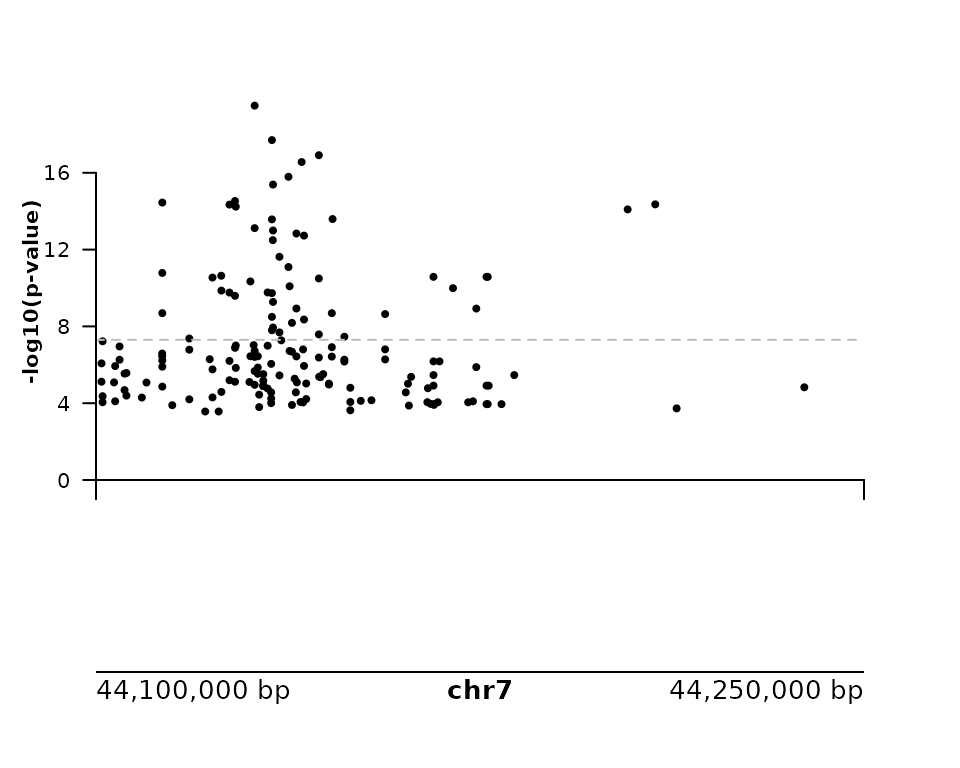
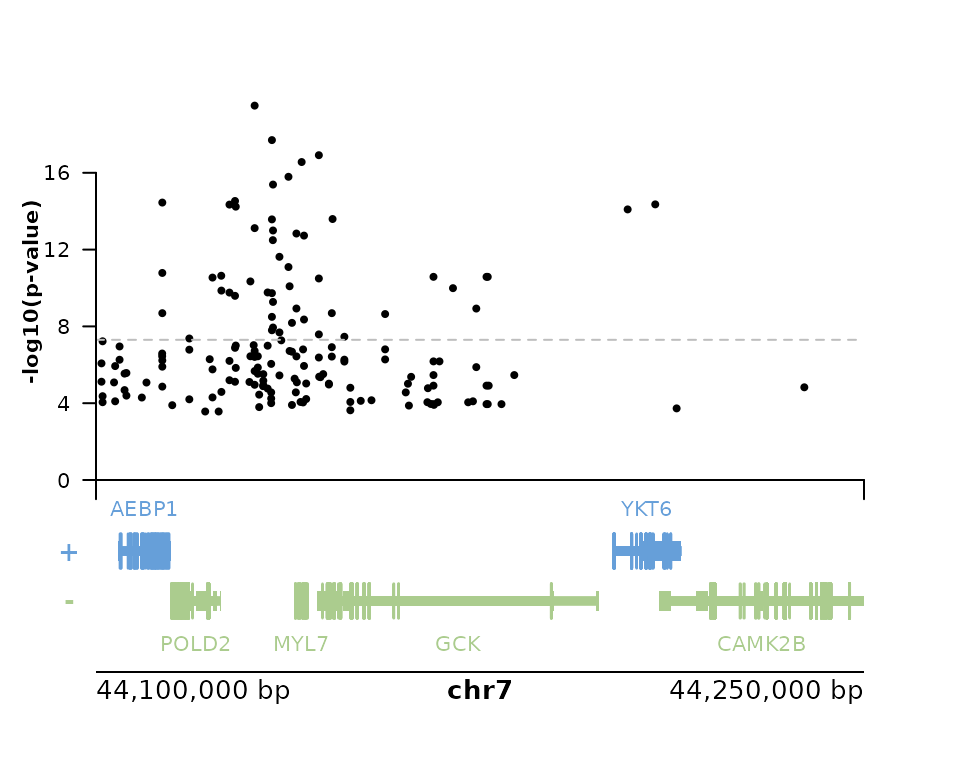
Deploying to gh-pages from @ IGVF/rigvf@bd4b7398d76fc277c2a14d004ba63ebf69a8180a 🚀

Changed region(s): [[0.2812, 0.75, 0.625, 0.8438], [0.625, 0.6562, 0.9062, 0.8438], [0.125, 0.6562, 0.25, 0.8438]]

diff --git a/articles/use.html b/articles/use.html
@@ -425,7 +425,9 @@ names.</p>
 <span><span class="co">#&gt; Attaching package: 'AnnotationDbi'</span></span>
 <span><span class="co">#&gt; The following object is masked from 'package:plyranges':</span></span>
 <span><span class="co">#&gt; </span></span>
-<span><span class="co">#&gt;     select</span></span></code></pre></div>
+<span><span class="co">#&gt;     select</span></span>
+<span><span class="kw"><a href="https://rdrr.io/r/base/library.html" class="external-link">library</a></span><span class="op">(</span><span class="va">org.Hs.eg.db</span><span class="op">)</span></span>
+<span><span class="co">#&gt; </span></span></code></pre></div>
 <p>Below we build the page and populate it with annotation from the
 <em>TxDb</em> used by <em>plotgardener</em> and from IGVF Catalog.</p>
 <div class="sourceCode" id="cb13"><pre class="downlit sourceCode r">
@@ -433,8 +435,6 @@ names.</p>
 <span><span class="fu"><a href="https://phanstiellab.github.io/plotgardener/reference/plotGenes.html" class="external-link">plotGenes</a></span><span class="op">(</span></span>
 <span>  params <span class="op">=</span> <span class="va">par</span>, x <span class="op">=</span> <span class="fl">0.5</span>, y <span class="op">=</span> <span class="fl">3.5</span>, width <span class="op">=</span> <span class="fl">4</span>, height <span class="op">=</span> <span class="fl">1</span></span>
 <span><span class="op">)</span></span>
-<span><span class="co">#&gt; Warning: `org.Hs.eg.db` not available. Please load to plot genes or</span></span>
-<span><span class="co">#&gt; transcripts.</span></span>
 <span><span class="co">#&gt; genes[genes1]</span></span>
 <span><span class="fu"><a href="https://phanstiellab.github.io/plotgardener/reference/plotGenomeLabel.html" class="external-link">plotGenomeLabel</a></span><span class="op">(</span></span>
 <span>  params <span class="op">=</span> <span class="va">par</span>,</span>
@@ -493,18 +493,19 @@ names.</p>
 <span><span class="co">#&gt; [8] base     </span></span>
 <span><span class="co">#&gt; </span></span>
 <span><span class="co">#&gt; other attached packages:</span></span>
-<span><span class="co">#&gt;  [1] TxDb.Hsapiens.UCSC.hg38.knownGene_3.20.0</span></span>
-<span><span class="co">#&gt;  [2] GenomicFeatures_1.58.0                  </span></span>
-<span><span class="co">#&gt;  [3] AnnotationDbi_1.68.0                    </span></span>
-<span><span class="co">#&gt;  [4] Biobase_2.66.0                          </span></span>
-<span><span class="co">#&gt;  [5] plotgardener_1.12.0                     </span></span>
-<span><span class="co">#&gt;  [6] plyranges_1.26.0                        </span></span>
-<span><span class="co">#&gt;  [7] GenomicRanges_1.58.0                    </span></span>
-<span><span class="co">#&gt;  [8] GenomeInfoDb_1.42.3                     </span></span>
-<span><span class="co">#&gt;  [9] IRanges_2.40.1                          </span></span>
-<span><span class="co">#&gt; [10] S4Vectors_0.44.0                        </span></span>
-<span><span class="co">#&gt; [11] BiocGenerics_0.52.0                     </span></span>
-<span><span class="co">#&gt; [12] rigvf_0.0.7                             </span></span>
+<span><span class="co">#&gt;  [1] org.Hs.eg.db_3.20.0                     </span></span>
+<span><span class="co">#&gt;  [2] TxDb.Hsapiens.UCSC.hg38.knownGene_3.20.0</span></span>
+<span><span class="co">#&gt;  [3] GenomicFeatures_1.58.0                  </span></span>
+<span><span class="co">#&gt;  [4] AnnotationDbi_1.68.0                    </span></span>
+<span><span class="co">#&gt;  [5] Biobase_2.66.0                          </span></span>
+<span><span class="co">#&gt;  [6] plotgardener_1.12.0                     </span></span>
+<span><span class="co">#&gt;  [7] plyranges_1.26.0                        </span></span>
+<span><span class="co">#&gt;  [8] GenomicRanges_1.58.0                    </span></span>
+<span><span class="co">#&gt;  [9] GenomeInfoDb_1.42.3                     </span></span>
+<span><span class="co">#&gt; [10] IRanges_2.40.1                          </span></span>
+<span><span class="co">#&gt; [11] S4Vectors_0.44.0                        </span></span>
+<span><span class="co">#&gt; [12] BiocGenerics_0.52.0                     </span></span>
+<span><span class="co">#&gt; [13] rigvf_0.0.7                             </span></span>
 <span><span class="co">#&gt; </span></span>
 <span><span class="co">#&gt; loaded via a namespace (and not attached):</span></span>
 <span><span class="co">#&gt;  [1] tidyselect_1.2.1            blob_1.2.4                 </span></span>
